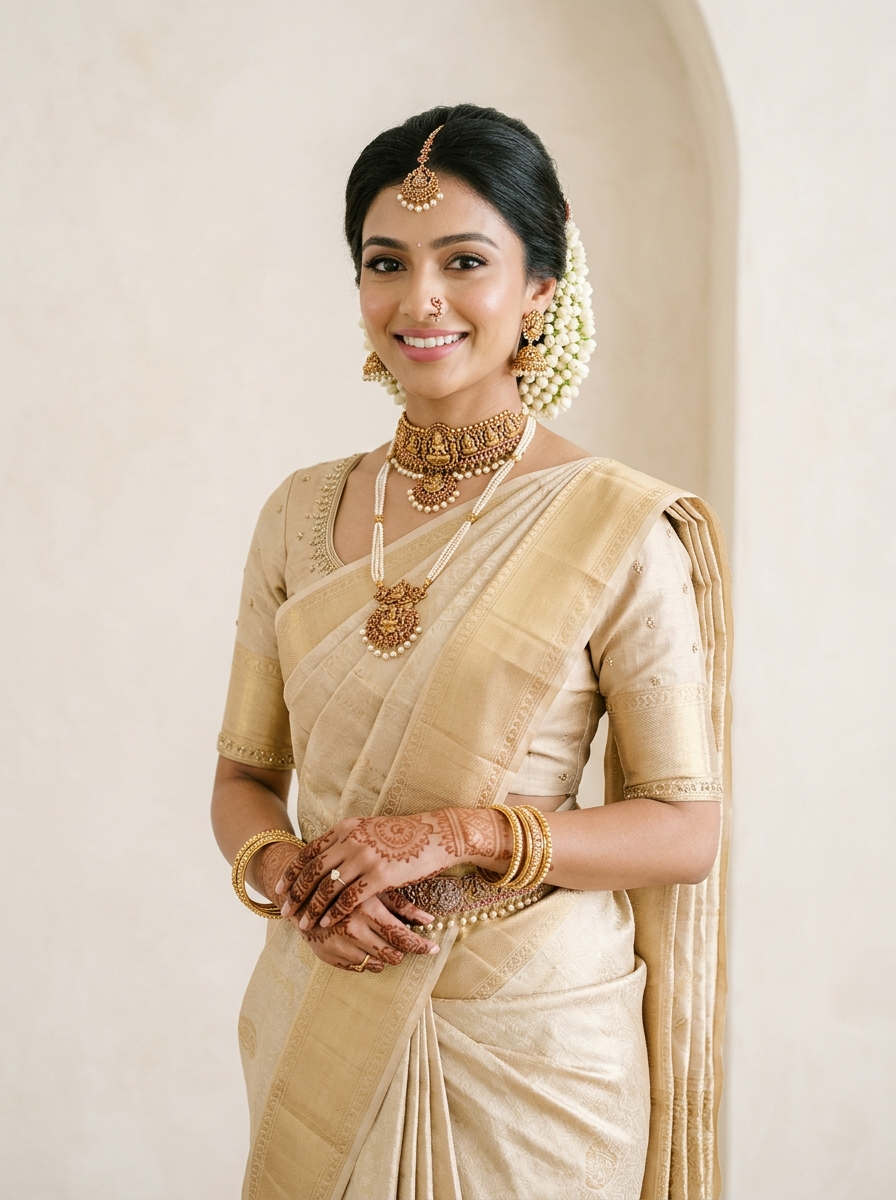
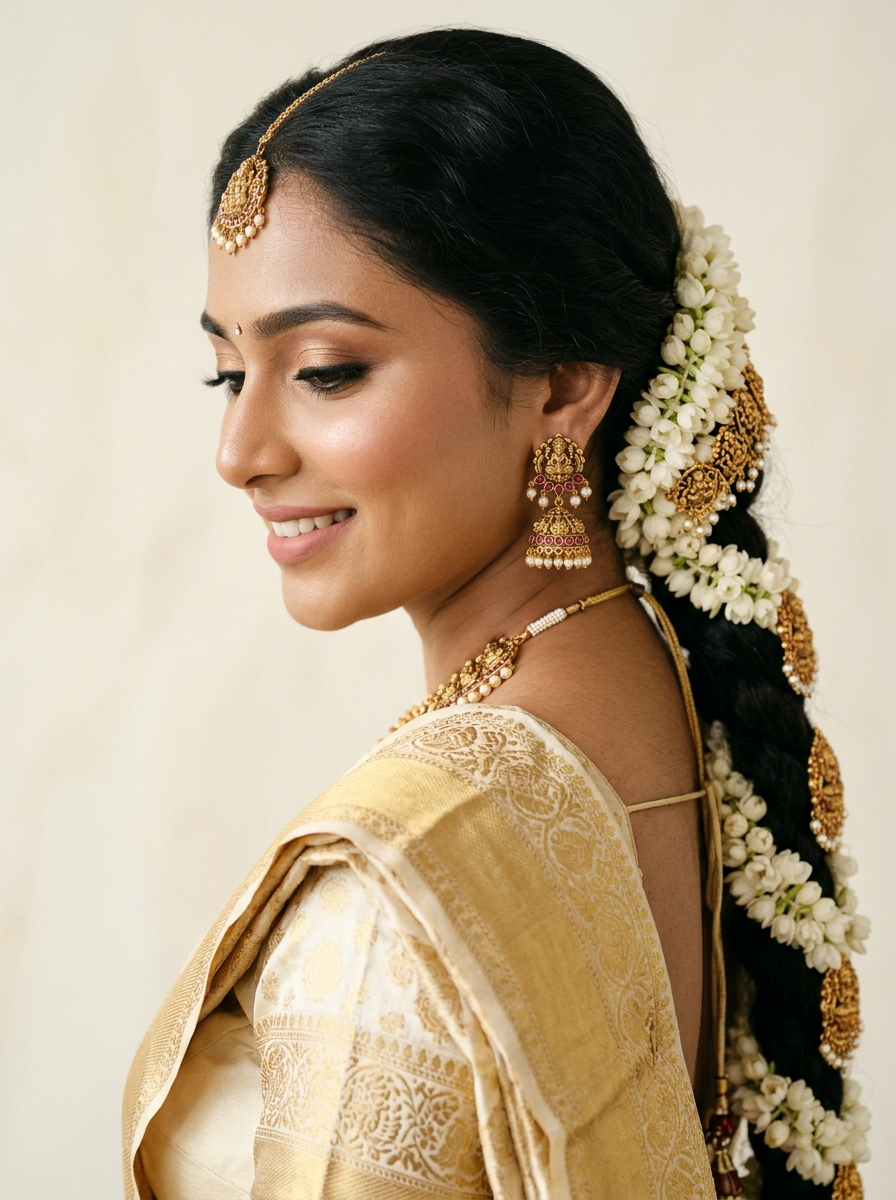
Apply mobile-first layout refinements, distinct bridal portrait, and touch target polish

diff --git a/styles.css b/styles.css
@@ -24,7 +24,7 @@
 
   /* Spacing */
   --container-max-width: 1240px;
-  --section-pad-y: clamp(4.5rem, 8vw, 7.5rem);
+  --section-pad-y: clamp(3.5rem, 6vw, 6rem); /* py-14 mobile, py-24 desktop */
   --container-pad-x: clamp(1.25rem, 4vw, 2.5rem);
 
   /* Elevation & Borders */
@@ -37,6 +37,12 @@
   box-sizing: border-box;
   margin: 0;
   padding: 0;
+}
+
+html, body {
+  overflow-x: hidden;
+  max-width: 100vw;
+  width: 100%;
 }
 
 html {
@@ -52,7 +58,6 @@ body {
   color: var(--color-charcoal);
   line-height: 1.65;
   font-weight: 400;
-  overflow-x: hidden;
   -webkit-font-smoothing: antialiased;
   -moz-osx-font-smoothing: grayscale;
 }
@@ -232,6 +237,7 @@ button {
 .btn-nav-whatsapp {
   display: inline-flex;
   align-items: center;
+  justify-content: center;
   gap: 0.5rem;
   font-size: 0.8125rem;
   font-weight: 600;
@@ -239,6 +245,7 @@ button {
   text-transform: uppercase;
   color: var(--color-crisp-white);
   padding: 0.625rem 1.25rem;
+  min-height: 48px;
   border: 1px solid var(--color-champagne);
   border-radius: 2px;
   background-color: transparent;
@@ -256,19 +263,22 @@ button {
   color: var(--color-jet-black);
 }
 
-/* Mobile Menu Toggle Button */
+/* Mobile Menu Toggle Button (44px x 44px Tap Target) */
 .mobile-toggle {
   display: none;
   flex-direction: column;
   justify-content: center;
   align-items: center;
-  width: 40px;
-  height: 40px;
+  min-width: 44px;
+  min-height: 44px;
+  width: 44px;
+  height: 44px;
   gap: 5px;
   cursor: pointer;
   background: transparent;
   border: none;
   padding: 0;
+  -webkit-tap-highlight-color: transparent;
 }
 
 .mobile-toggle span {
@@ -358,6 +368,7 @@ button {
 .hero-copy {
   display: flex;
   flex-direction: column;
+  order: 1;
 }
 
 .hero-eyebrow {
@@ -399,6 +410,7 @@ button {
   background-color: var(--color-jet-black);
   color: var(--color-crisp-white);
   padding: 0.95rem 1.85rem;
+  min-height: 48px;
   font-size: 0.875rem;
   font-weight: 600;
   letter-spacing: 0.08em;
@@ -428,6 +440,7 @@ button {
   background-color: transparent;
   color: var(--color-jet-black);
   padding: 0.95rem 1.85rem;
+  min-height: 48px;
   font-size: 0.875rem;
   font-weight: 600;
   letter-spacing: 0.08em;
@@ -487,6 +500,7 @@ button {
   display: flex;
   justify-content: center;
   width: 100%;
+  order: 2;
 }
 
 .hero-frame {
@@ -512,20 +526,6 @@ button {
 
 .hero-frame:hover img {
   transform: scale(1.02);
-}
-
-.hero-frame-caption {
-  position: absolute;
-  bottom: 0;
-  left: 0;
-  right: 0;
-  padding: 0.75rem 1.25rem;
-  background: linear-gradient(to top, rgba(10, 10, 10, 0.75), transparent);
-  color: var(--color-crisp-white);
-  font-size: 0.75rem;
-  letter-spacing: 0.1em;
-  text-transform: uppercase;
-  font-weight: 500;
 }
 
 /* ==========================================================================
@@ -874,6 +874,7 @@ button {
   align-items: center;
   justify-content: space-between;
   padding: 1.5rem 1.75rem;
+  min-height: 48px;
   border: 1px solid var(--color-champagne);
   background-color: var(--color-alabaster);
   border-radius: 2px;
@@ -1053,6 +1054,7 @@ button {
   background-color: var(--color-jet-black);
   color: var(--color-crisp-white);
   padding: 0.95rem 1.5rem;
+  min-height: 48px;
   font-size: 0.8125rem;
   font-weight: 600;
   letter-spacing: 0.08em;
@@ -1210,8 +1212,12 @@ button {
     gap: 3rem;
   }
 
+  .hero-copy {
+    order: 1;
+  }
+
   .hero-visual-wrap {
-    order: -1;
+    order: 2;
   }
 
   .hero-frame {
@@ -1257,10 +1263,10 @@ button {
   }
 }
 
-/* Mobile Screens */
+/* Mobile Screens (iOS & Android) */
 @media (max-width: 768px) {
   :root {
-    --section-pad-y: 3.75rem;
+    --section-pad-y: 3.5rem; /* py-14 mobile */
   }
 
   .site-header {
@@ -1268,8 +1274,10 @@ button {
   }
 
   .brand-logo-img {
-    height: 38px; /* 38px on mobile */
-    max-width: 125px;
+    height: 40px; /* 40px on mobile */
+    width: auto;
+    max-width: 140px;
+    object-fit: contain;
   }
 
   .mobile-drawer {
@@ -1283,6 +1291,25 @@ button {
 
   .mobile-toggle {
     display: flex;
+  }
+
+  .hero-copy {
+    order: 1;
+  }
+
+  .hero-visual-wrap {
+    order: 2;
+  }
+
+  .hero-frame {
+    aspect-ratio: 4 / 3;
+    max-height: 360px;
+    max-width: 100%;
+    margin: 0 auto;
+  }
+
+  .hero-frame img {
+    object-position: top center;
   }
 
   .services-grid-2x2 {
@@ -1299,9 +1326,28 @@ button {
     width: 100%;
   }
 
+  /* 3 Hero Highlights in compact horizontal 3-column grid */
   .hero-editorial-meta {
-    grid-template-columns: 1fr;
-    gap: 1.25rem;
+    display: grid;
+    grid-template-columns: repeat(3, 1fr);
+    gap: 0.75rem; /* gap-3 */
+    padding-top: 1.25rem;
+    margin-top: 1.5rem;
+    margin-bottom: 2rem;
+    width: 100%;
+  }
+
+  .meta-number {
+    font-size: 0.9375rem;
+  }
+
+  .meta-label {
+    font-size: 0.6875rem;
+  }
+
+  /* Visual strip cards: 4/3 aspect-ratio on mobile */
+  .strip-image-wrap {
+    aspect-ratio: 4 / 3;
   }
 
   .instagram-callout-bar {
@@ -1309,29 +1355,29 @@ button {
     align-items: flex-start;
   }
 
-  /* Floating WhatsApp strictly on mobile screens */
+  /* Brand-Matched Floating WhatsApp Button (Mobile Only) */
   .floating-whatsapp {
     display: flex !important;
     position: fixed;
-    bottom: 1.25rem; /* bottom-5 */
-    right: 1.25rem; /* right-5 */
+    bottom: calc(20px + env(safe-area-inset-bottom, 0px));
+    right: 20px;
     z-index: 9999;
     align-items: center;
     justify-content: center;
-    width: 48px;
-    height: 48px;
+    width: 52px;
+    height: 52px;
     padding: 0;
     border-radius: 50%;
-    background-color: #25D366;
-    color: #FFFFFF;
-    border: none;
-    box-shadow: 0 4px 18px rgba(0, 0, 0, 0.3);
-    transition: transform 0.2s ease, box-shadow 0.2s ease;
+    background-color: var(--color-jet-black);
+    color: var(--color-crisp-white);
+    border: 1px solid var(--color-champagne);
+    box-shadow: 0 8px 24px rgba(0, 0, 0, 0.35);
+    transition: transform 0.2s ease, box-shadow 0.2s ease, background-color 0.2s ease;
   }
 
   .floating-whatsapp svg {
-    width: 26px;
-    height: 26px;
+    width: 24px;
+    height: 24px;
     fill: #FFFFFF;
   }
 
@@ -1341,6 +1387,7 @@ button {
 
   .floating-whatsapp:hover {
     transform: scale(1.06);
+    background-color: #1a1a1a;
   }
 
   .footer-bottom {

diff --git a/index.html b/index.html
@@ -176,9 +176,6 @@
               height="768"
               loading="eager"
             >
-            <div class="hero-frame-caption">
-              Signature Bridal Artistry • Payyavoor Studio
-            </div>
           </div>
         </div>
 
@@ -410,17 +407,17 @@
           <div class="strip-item">
             <div class="strip-image-wrap">
               <img 
-                src="assets/bridal-artistry.jpg" 
-                alt="Close-up of refined bridal hairstyling and makeup artistry with delicate floral ornaments" 
+                src="assets/bridal-closeup-hair.jpg" 
+                alt="Refined close-up beauty portrait showcasing intricate traditional South Indian bridal hairstyling with jasmine flowers and natural bridal makeup" 
                 width="1200" 
-                height="896"
+                height="1500"
                 loading="lazy"
               >
             </div>
             <div class="strip-content">
               <span class="strip-tag">Artistry</span>
               <h3 class="strip-title">Bridal Hair & Makeup</h3>
-              <p class="strip-desc">Luminous, natural-finish complexion artistry with tailored traditional or contemporary floral hair styling.</p>
+              <p class="strip-desc">Luminous, natural-finish complexion artistry with tailored traditional floral hair styling and delicate ornaments.</p>
             </div>
           </div>
 
